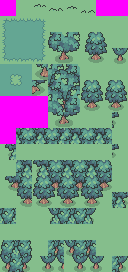
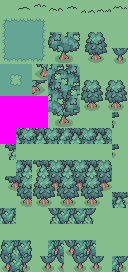
Add New Grass Tufts

Changed region(s): [[0.75, 0.0, 1.0, 0.0588], [0.0, 0.0, 0.125, 0.0588], [0.1562, 0.0294, 0.1875, 0.0588]]

diff --git a/tools/porymap/scripts/random_grass.js b/tools/porymap/scripts/random_grass.js
@@ -4,19 +4,17 @@ function randInt(min, max) {
     return Math.floor(Math.random() * (max - min)) + min;
 }
 
-// These are the grass metatiles in pokefirered.
-const grassTiles = [0x001, 0x002, 0x003, 0x004, 0x005];
+// These are the grass metatiles in Ikigai.
+const grassTiles = [0x000, 0x001, 0x002, 0x003, 0x004, 0x005, 0x006, 0x007];
 
 // Porymap callback when a block is painted.
 export function onBlockChanged(x, y, prevBlock, newBlock) {
     // Check if the user is painting a grass tile.
     if (grassTiles.indexOf(newBlock.metatileId) != -1) {
         // Choose a random grass tile and paint it on the map.
-        const i = randInt(0, grassTiles.length);
-        const randomise = randInt(0, 2);
-        if (randomise == 1)
-            map.setMetatileId(x, y, grassTiles[i]);
-        else
-            map.setMetatileId(x, y, grassTiles[0]);
+        const i = randInt(0, 2 * grassTiles.length);
+        if (i > grassTiles.length)
+            i = 0;
+        map.setMetatileId(x, y, grassTiles[i]);
     }
 }
